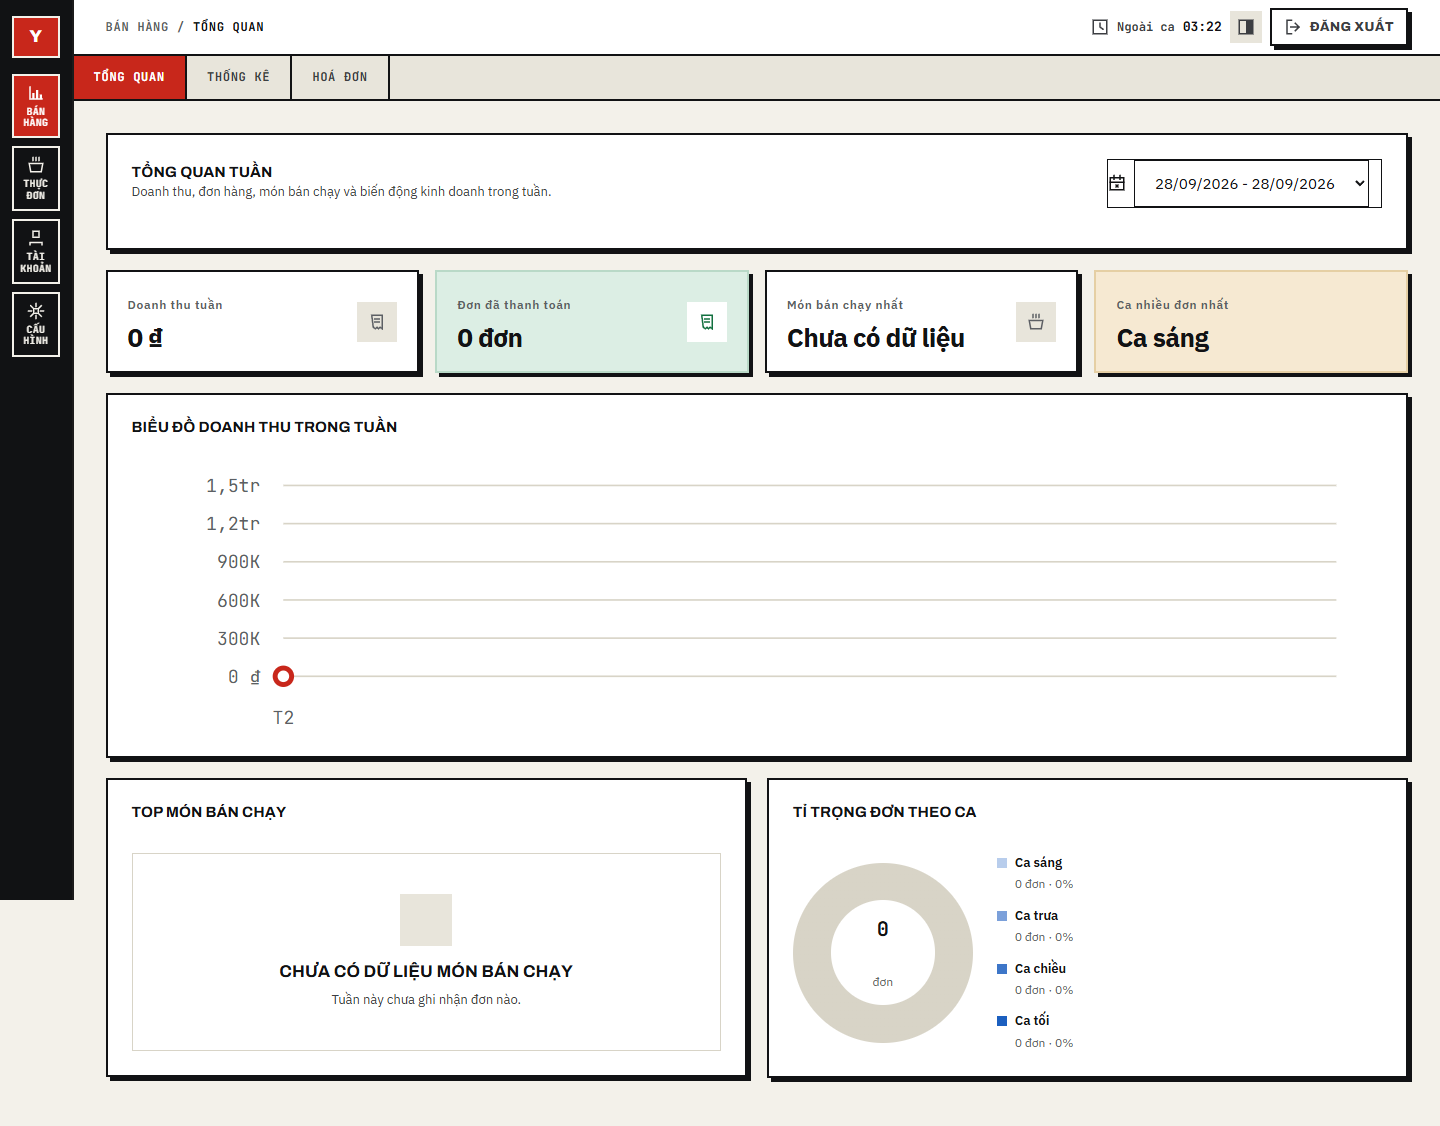
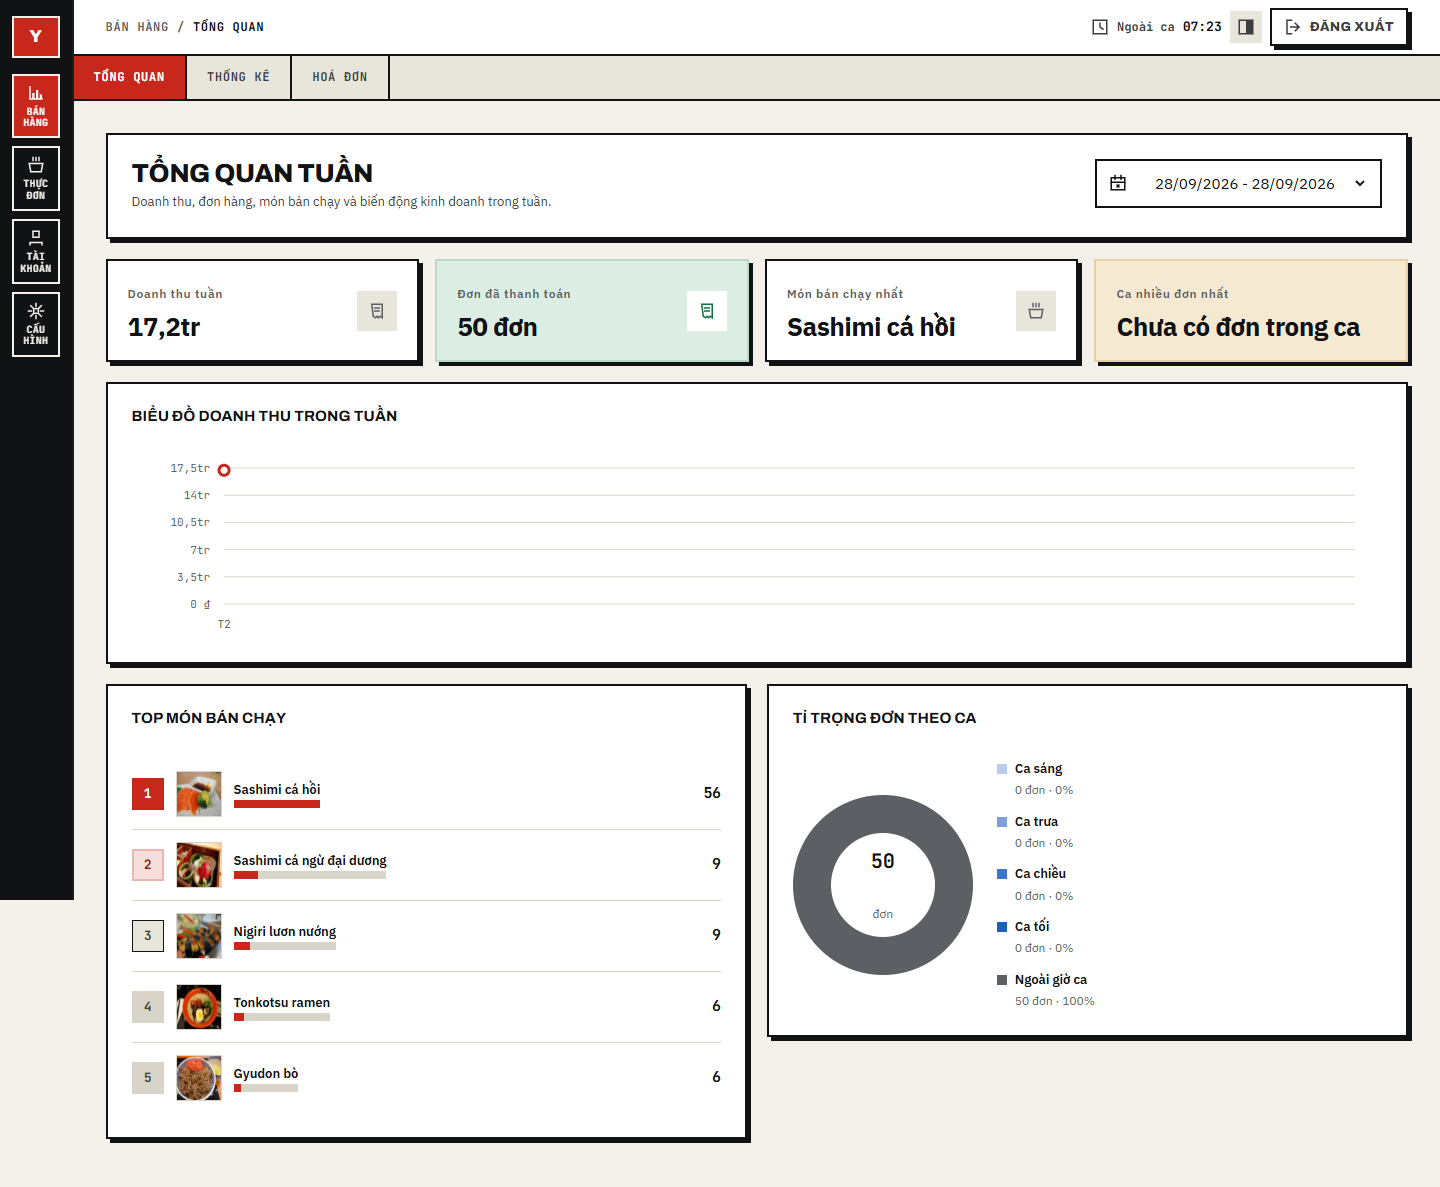
fix: cột thẳng hàng ở màn Đã huỷ/Đã xong, và doanh thu chưa chọn khoảng ghi —
- Khối Bàn / Số lượng / Thời gian / Lý do dồn phải và co theo độ dài lý do
  huỷ, nên cột "Bàn" mỗi dòng đứng một chỗ. Từ 48rem các ô có bề ngang cố
  định; hẹp hơn vẫn xuống hàng tự do.
- "Doanh thu khoảng ngày: 0 ₫" hiện ngay khi chưa chọn khoảng nào — nói sai
  rằng khoảng đó không bán được gì. null nay ghi "—", 0 vẫn là 0 ₫.
- Lý do huỷ tự động của backend: "Món đã được Chef đánh dấu…" → "bếp".

Changed region(s): [[0.0, 0.0, 1.0, 0.9636], [0.2188, 0.4352, 0.9062, 0.4663], [0.0, 0.746, 0.0625, 0.8082]]

diff --git a/frontend/src/styles/rims-kit.css b/frontend/src/styles/rims-kit.css
@@ -5230,6 +5230,32 @@ a.rk-statcard:focus-visible {
     gap: 2px;
 }
 
+/* Trong một DÒNG DANH SÁCH, các ô thông tin có bề ngang cố định để cột thẳng
+   hàng từ dòng này sang dòng khác. Để co theo nội dung thì khối dồn phải và
+   rộng theo độ dài lý do huỷ — cột "Bàn" mỗi dòng đứng một chỗ. Dưới 48rem
+   vẫn xuống hàng tự do như cũ. */
+@media (min-width: 48rem) {
+    .rk-rowlist__item > .rk-metarow {
+        flex-wrap: nowrap;
+    }
+
+    .rk-rowlist__item > .rk-metarow > div:nth-child(1) {
+        width: 4rem;
+    }
+
+    .rk-rowlist__item > .rk-metarow > div:nth-child(2) {
+        width: 5rem;
+    }
+
+    .rk-rowlist__item > .rk-metarow > div:nth-child(3) {
+        width: 9rem;
+    }
+
+    .rk-rowlist__item > .rk-metarow > div:nth-child(4) {
+        width: 16rem;
+    }
+}
+
 .rk-metarow small {
     color: var(--rims-ink-3);
     font-size: var(--rims-text-xs);

diff --git a/frontend/src/features/admin/statistics/RevenueDashboard.tsx b/frontend/src/features/admin/statistics/RevenueDashboard.tsx
@@ -31,7 +31,12 @@ export function RevenueCard({
     return (
         <article className={`rk-stat ${className}`.trim()}>
             <span className="rk-stat__label">{title}</span>
-            <strong className="rk-stat__value">{formatRevenueCurrency(amount)}</strong>
+            {/* null = CHƯA CÓ SỐ (chưa chọn khoảng ngày), khác với 0 ₫ = có số và
+                bằng không. In "0 ₫" khi chưa chọn gì là nói sai rằng khoảng đó
+                không bán được gì. */}
+            <strong className="rk-stat__value">
+                {amount == null ? '—' : formatRevenueCurrency(amount)}
+            </strong>
         </article>
     )
 }

diff --git a/backend/rims-api/src/main/java/vn/edu/fpt/swp391/g6/rimsapi/service/impl/ChefServiceImpl.java b/backend/rims-api/src/main/java/vn/edu/fpt/swp391/g6/rimsapi/service/impl/ChefServiceImpl.java
@@ -199,7 +199,7 @@ public class ChefServiceImpl implements ChefService
         {
             cancelAllPreparingItemsOfDish(
                     dish,
-                    "Món đã được Chef đánh dấu hết trong thực đơn");
+                    "Món đã được bếp đánh dấu hết trong thực đơn");
         }
 
         dishRepository.save(dish);
